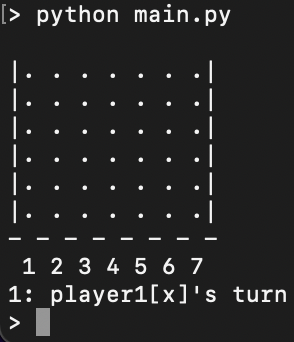
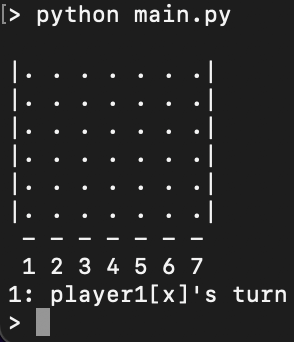
fix places of space

Changed region(s): [[0.0306, 0.6725, 0.7347, 0.7018]]

diff --git a/main.py b/main.py
@@ -4,22 +4,22 @@ import game
 
 def main():
     parser = argparse.ArgumentParser(description="a connect-four game.")
-    parser.add_argument("-p1", "-player1", type=str,
-                        default="x", help="symbol for player 1")
-    parser.add_argument("-p2", "-player2", type=str,
-                        default="o", help="symbol for player 2")
-    parser.add_argument("-e", "-empty", type=str,
-                        default=".", help="symbol for empty slot")
-    parser.add_argument("-s", "-separator", type=str,
-                        default=" ", help="for separating numbers")
-    parser.add_argument("-x", "-width", type=int,
-                        default=7, help="board width")
-    parser.add_argument("-y", "-height", type=int,
-                        default=6, help="board height")
-    parser.add_argument("-n", "-length", type=int,
-                        default=4, help="length to win")
-    parser.add_argument("-o", "-logfile", type=str, default="./result.log",
-                        metavar="FILE", help="file to save results")
+    parser.add_argument("-p1", "-player1", type=str, default="x",
+                        help="symbol for player 1 (default 'x')")
+    parser.add_argument("-p2", "-player2", type=str, default="o",
+                        help="symbol for player 2 (default 'o')")
+    parser.add_argument("-e", "-empty", type=str, default=".",
+                        help="symbol for empty slot (default '.')")
+    parser.add_argument("-s", "-separator", type=str, default=" ",
+                        help="for separating numbers (default ' ')")
+    parser.add_argument("-x", "-width", type=int, default=7,
+                        help="board width (default 7)")
+    parser.add_argument("-y", "-height", type=int, default=6,
+                        help="board height (default 6)")
+    parser.add_argument("-n", "-length", type=int, default=4,
+                        help="length to win (default 4)")
+    parser.add_argument("-o", "-logfile", type=str, default="result.log",
+                        metavar="FILE", help="file to save log (default 'result.log')")
     args = parser.parse_args()
 
     g = game.Game(**vars(args))

diff --git a/game.py b/game.py
@@ -18,7 +18,7 @@ class Game:
         s = "\n"
         for row in zip(*[f"{col:.<{self.y}}"[::-1] for col in self.board]):
             s += "|"+" ".join(row)+"|\n"
-        s += "-_"*self.x + "-\n "\
+        s += " " + "-_"*self.x + "\n "\
             + "_".join(f"{i+1}" for i in range(self.x))+"\n"
         return s.translate(tr)
 

diff --git a/README.md b/README.md
@@ -13,7 +13,7 @@ optional arguments:
   -p1 P1, -player1 P1    symbol for player 1   (default 'x')
   -p2 P2, -player2 P2    symbol for player 2   (default 'o')
   -e E, -empty E         symbol for empty slot (default '.')
-  -s S, -separator S     used for separating slots
+  -s S, -separator S     string for separating slots (default ' ')
   (for better looking, P1, P2, E and S should have the same width)
   -x X, -width X         board width   (default 7)
   -y Y, -height Y        board height  (default 6)
